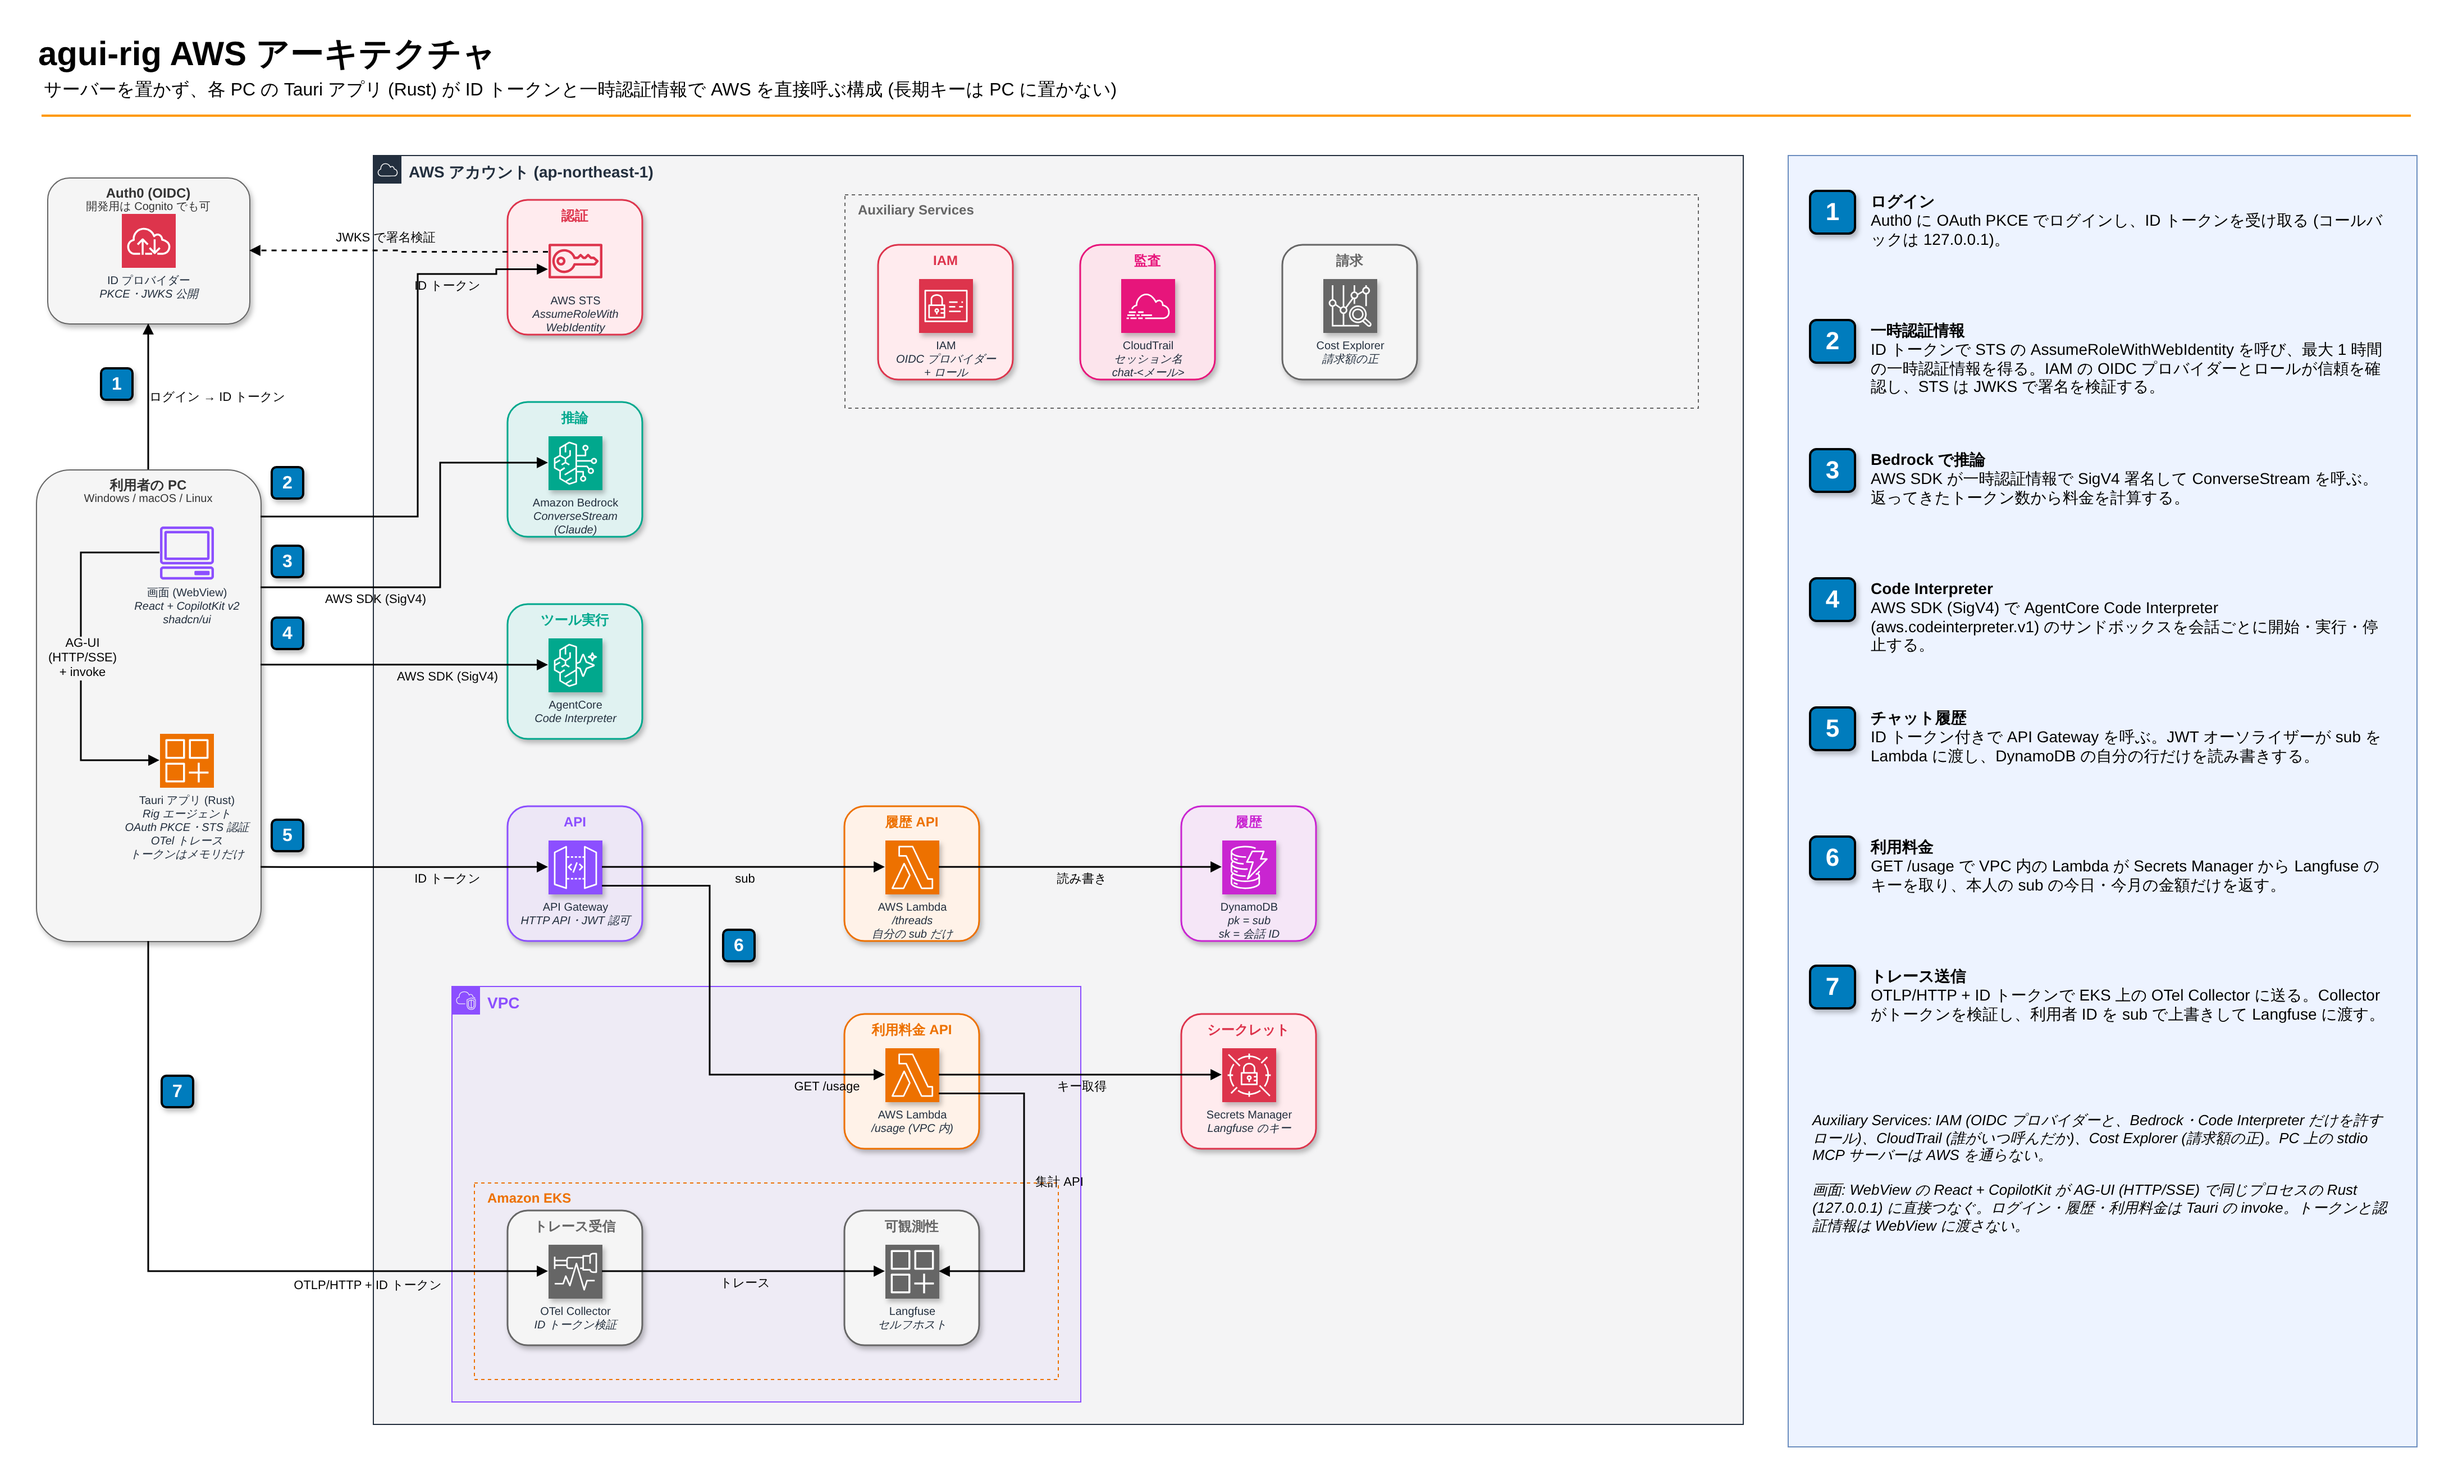
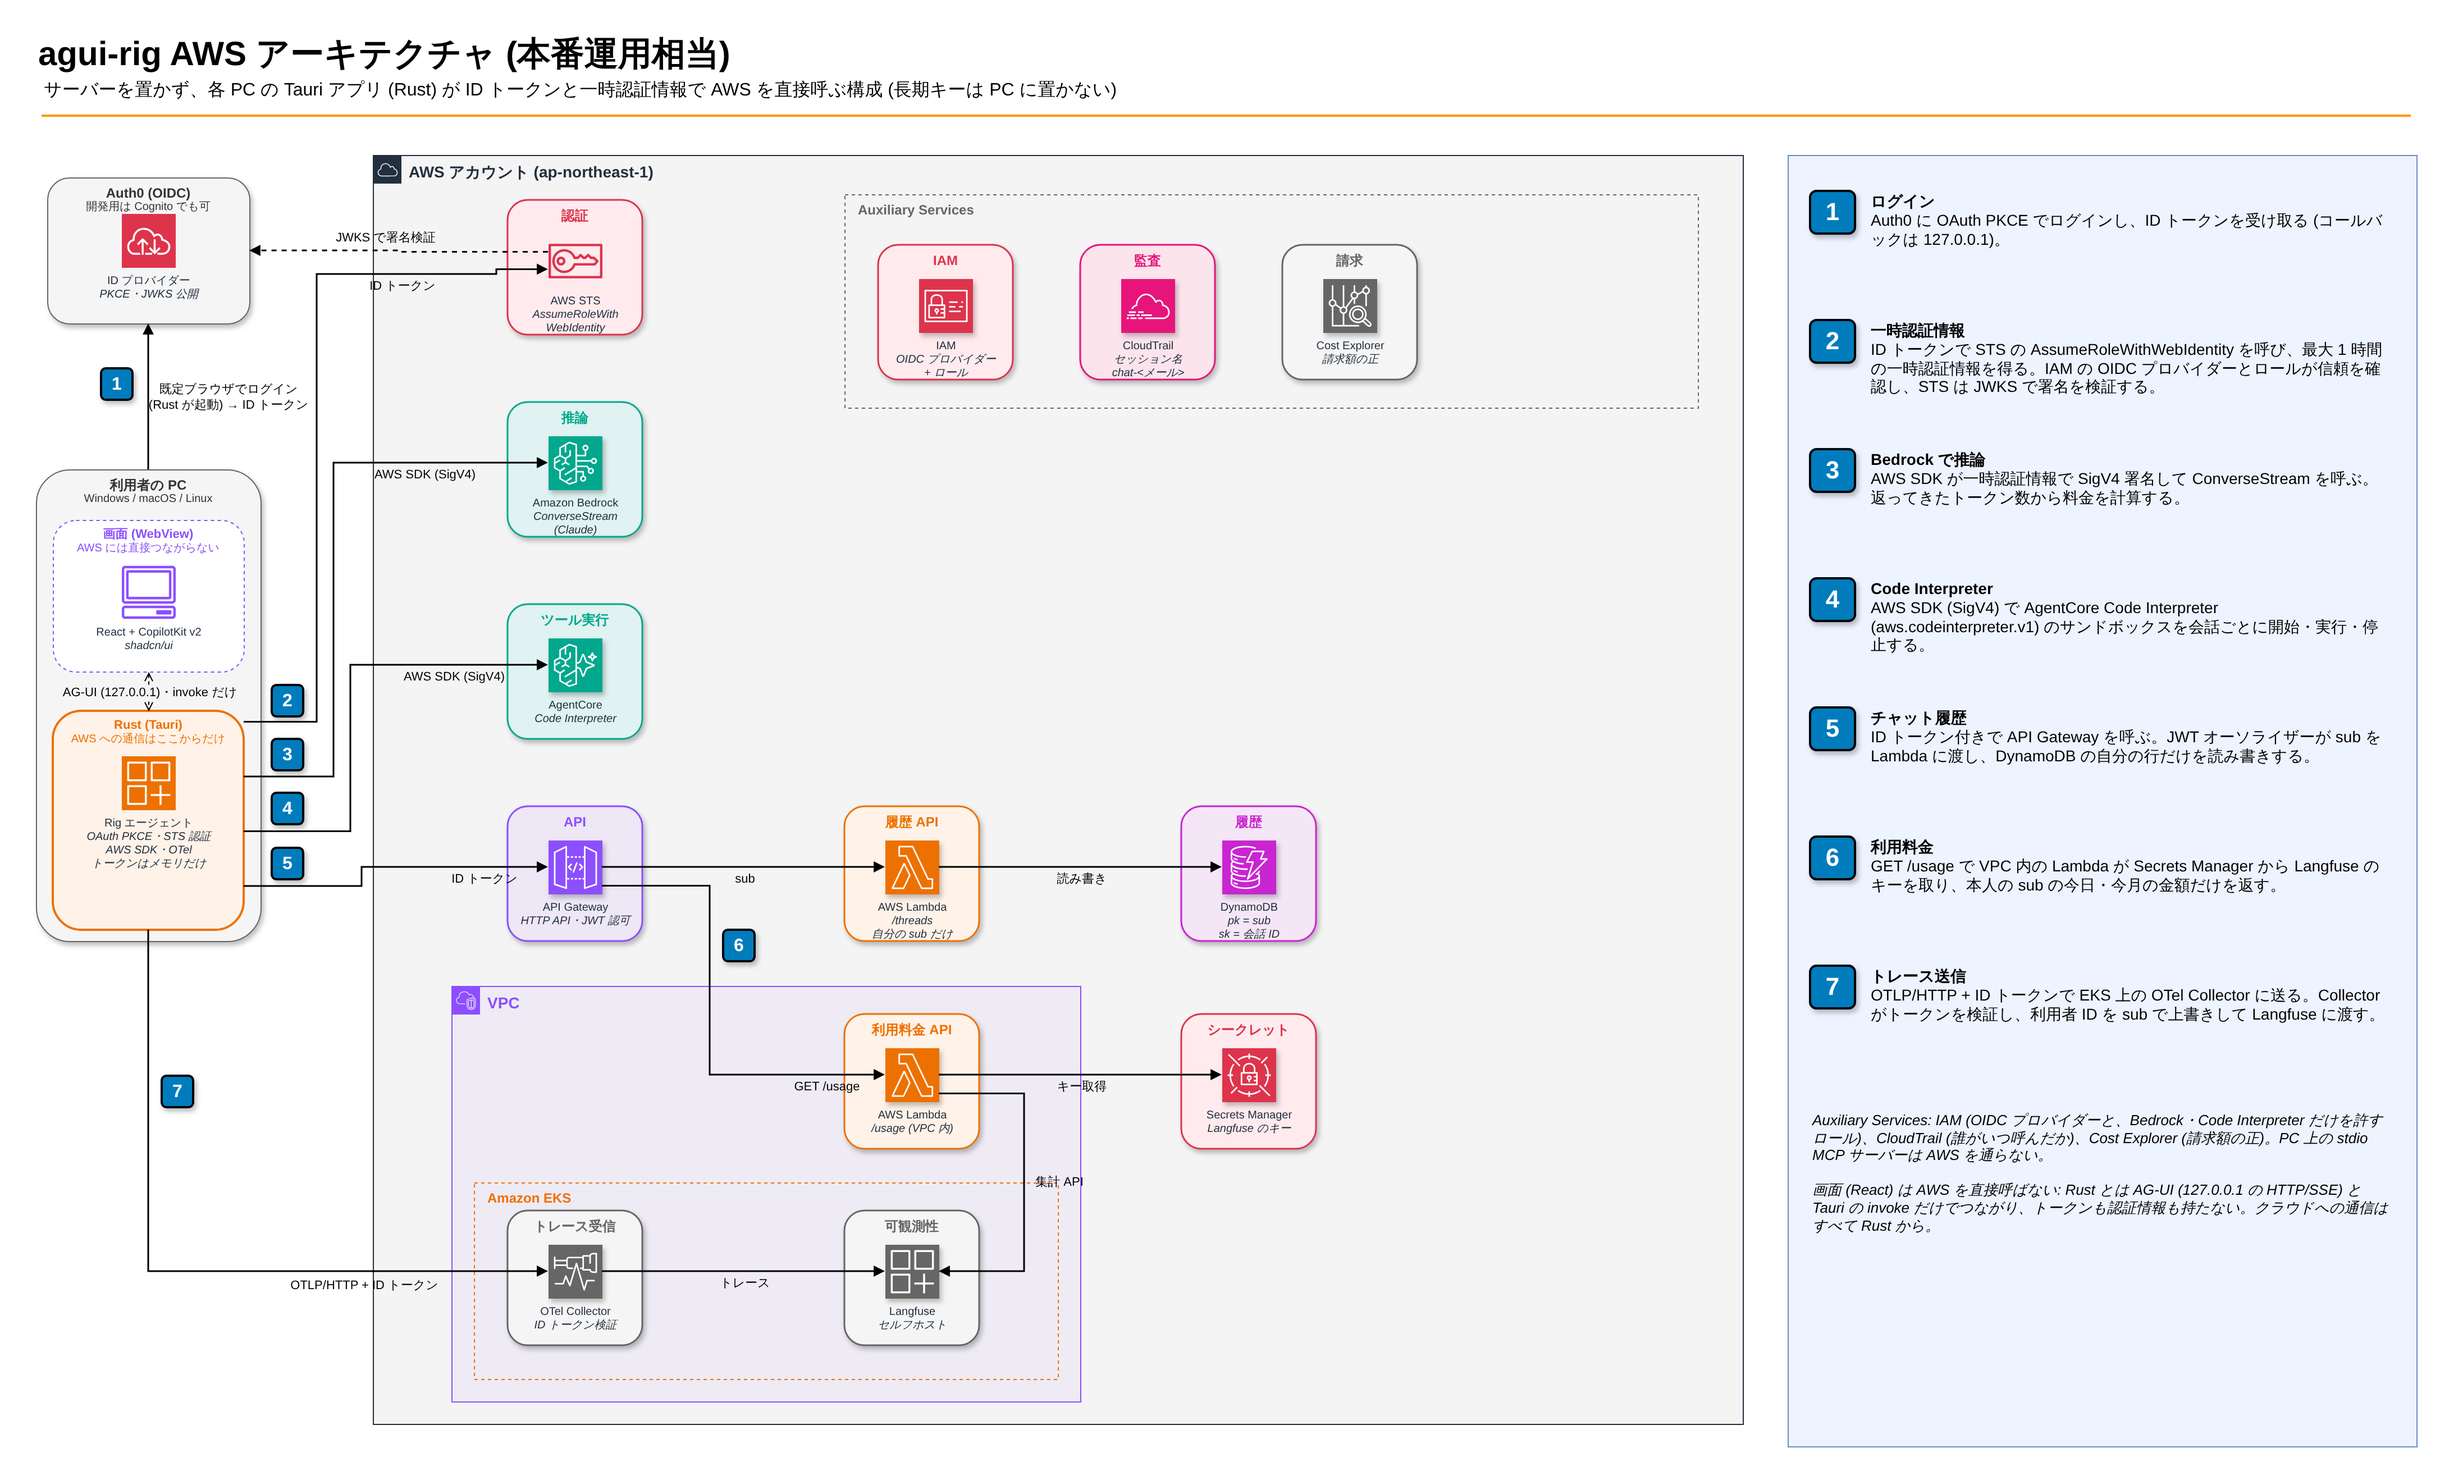
docs: Rust だけがクラウドを呼ぶ構成を図で明示し、README を本番運用相当として整理
- 図: 利用者の PC の中を「画面 (WebView)」と「Rust (Tauri)」の枠に分け、
  AWS への矢印はすべて Rust の枠から出す。画面とは AG-UI・invoke だけの疎な関係
- 図のタイトルに (本番運用相当) を追加
- README: AWS 構成の節を「本番運用相当」と明記し、その要点をまとめた。
  通信表の番号を図 (1〜7) に合わせた

Claude-Session: https://claude.ai/code/session_01EqFxG41PYvC2wSVvpGbNtw

diff --git a/README.md b/README.md
@@ -71,13 +71,23 @@ docs/images/      README の図
 - Code Interpreter のセッションはチャットのスレッドごとに 1 つ作るので、同じスレッドでは変数やファイルが引き継がれる。ログアウトやアプリ終了で止める。
 - MCP サーバーはアプリ起動時に子プロセスとして起動し、終了時に止める。**AWS の認証情報などを渡さないよう、環境変数は `PATH` など最小限だけ引き継ぐ** (必要なものは mcp.json の `env` に書く)。Windows では `npx` などのバッチファイルも動くよう `cmd /C` 経由で、コンソールウィンドウを出さずに起動する。
 
-## AWS 構成
+## AWS 構成 (本番運用相当)
 
-サーバーは置かず、各 PC のアプリ (Rust) が AWS を直接呼びます。AWS の長期キーは PC に置きません。
+このリポジトリの AWS 構成は、検証用の簡易版ではなく**本番運用相当の構成**です。
+アプリ用のサーバーは置かず、各 PC のアプリの Rust 側だけが AWS を直接呼びます。画面 (React) はクラウドに直接つながりません。
 
-![agui-rig の AWS 構成図](docs/images/aws-architecture.png)
+![agui-rig の AWS 構成図 (本番運用相当)](docs/images/aws-architecture.png)
 
-元データは [docs/images/aws-architecture.drawio](docs/images/aws-architecture.drawio) です (draw.io で開いて直せます)。
+図の元データは [docs/images/aws-architecture.drawio](docs/images/aws-architecture.drawio) です (draw.io で開いて直せます)。
+
+本番運用相当にしている点:
+
+- **長期キーなし**: ログインした ID トークンを STS で最大 1 時間の一時認証情報に替え、自動で更新する。トークンと認証情報は Rust のメモリだけに置き、画面にも PC のファイルにも残さない
+- **最小権限**: アプリのロールは Bedrock の呼び出しと AgentCore Code Interpreter だけ。DynamoDB や Langfuse のキーには触れない
+- **利用者の分離**: 履歴と利用料金は API Gateway の JWT オーソライザーが検証した `sub` だけで分けるので、ほかの人のデータに届かない
+- **監査とコスト**: 誰がいつ呼んだかは CloudTrail (ロールセッション名 `chat-<email または sub>`)、請求額の正は Cost Explorer、利用者別・会話別の内訳は Langfuse
+- **可観測性**: トレースは ID トークンを検証する OTel Collector 経由で、セルフホストの Langfuse に送る
+- **IaC**: AWS のリソースは `infra/terraform/` の Terraform で作る (下の「AWS 側の準備」)
 
 <details>
 <summary>同じ図の Mermaid 版 (テキストで直すとき用)</summary>
@@ -128,11 +138,12 @@ flowchart LR
 | ③ アプリ → Bedrock | 一時認証情報 (SigV4) | モデルの呼び出し (ストリーミング) |
 | ④ アプリ → AgentCore Code Interpreter | 一時認証情報 (SigV4) | コード実行 (会話ごとのサンドボックス) |
 | ⑤ アプリ → API Gateway → Lambda → DynamoDB | ID トークン (API Gateway の JWT オーソライザー) | チャット履歴 (`/threads`)。Lambda が ID トークンの `sub` だけで利用者を分ける |
-| ⑤' アプリ → API Gateway → Lambda → Langfuse | ID トークン (同上) | 自分の利用料金 (`/usage`、今日・今月)。Langfuse のキーは Lambda だけが持つ |
-| ⑥ アプリ → OTel Collector → Langfuse | ID トークン (Collector の oidc 認証)。Collector → Langfuse は Langfuse のキー | トレース、トークン数、料金の内訳。利用者 ID は Collector が検証済みの `sub` で上書きする |
+| ⑥ アプリ → API Gateway → Lambda (VPC 内) → Langfuse | ID トークン (同上) | 自分の利用料金 (`/usage`、今日・今月)。Langfuse のキーは Secrets Manager に置き、Lambda だけが読む |
+| ⑦ アプリ → OTel Collector → Langfuse | ID トークン (Collector の oidc 認証)。Collector → Langfuse は Langfuse のキー | トレース、トークン数、料金の内訳。利用者 ID は Collector が検証済みの `sub` で上書きする |
+
+番号は上の図の番号と同じです。
 
 - PC 上の stdio MCP サーバーは AWS を通りません。AWS の認証情報も渡しません。
-- 利用の記録は CloudTrail (ロールセッション名 `chat-<email または sub>`)、請求額は Cost Explorer で確認します。
 - 履歴を API Gateway 経由にしているのは、JWT オーソライザーが ID トークンを検証して `sub` を Lambda に渡すので、利用者を偽れないためです
   (アプリが一時認証情報で DynamoDB を直接読み書きすると、ほかの人の項目に届かないようにするのが難しい)。
   このため、アプリのロールに DynamoDB の権限は要りません。
